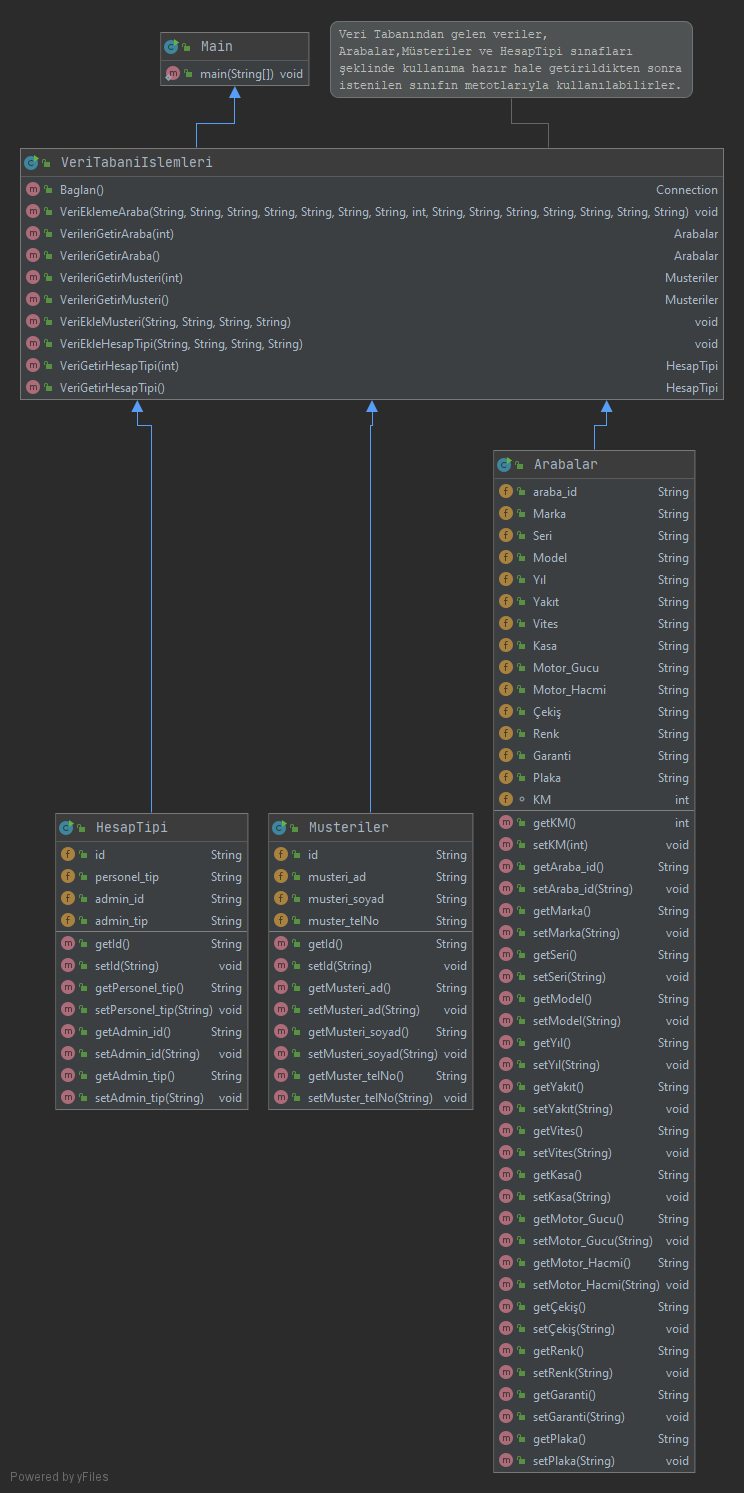
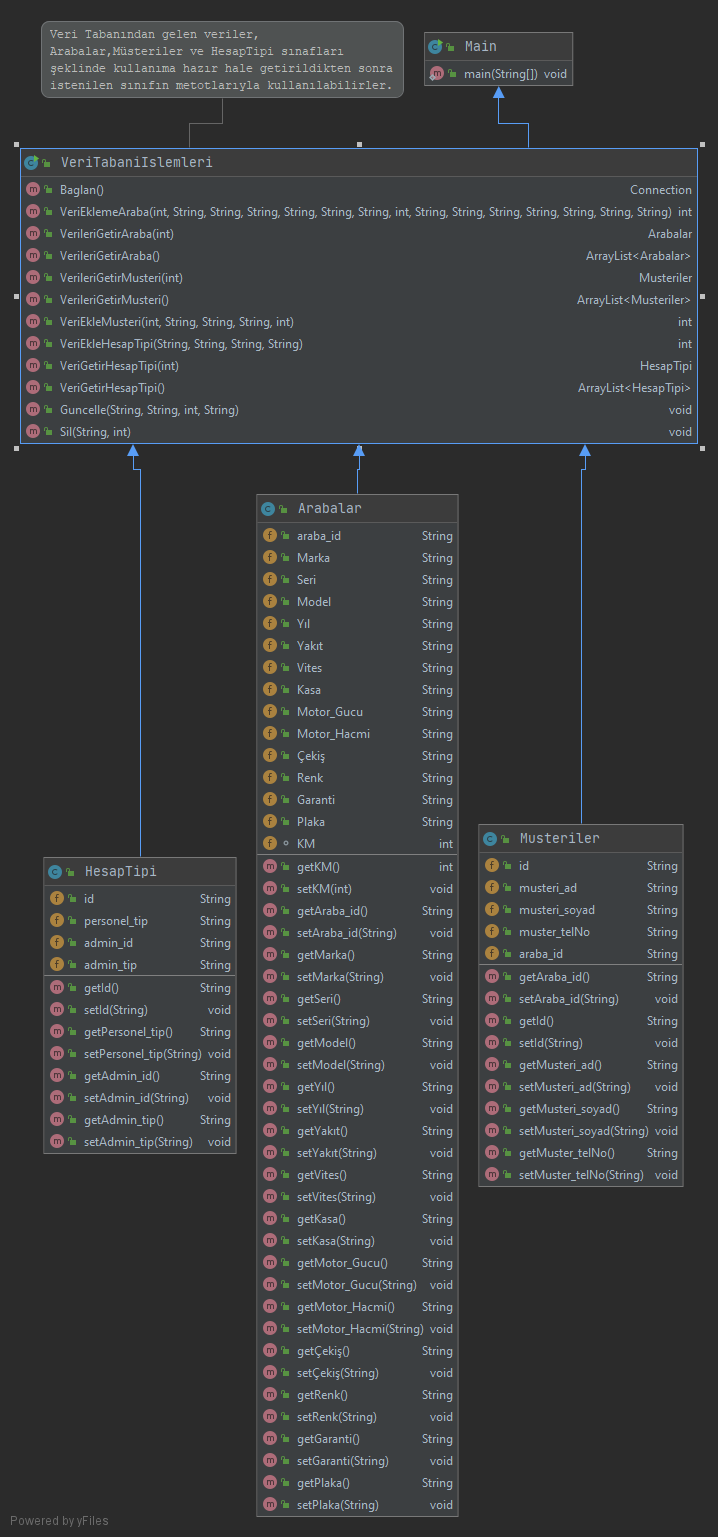
Diyagramlar Güncellendi

diff --git a/src/Sınıflar/VeriTabaniIslemleri.java b/src/Sınıflar/VeriTabaniIslemleri.java
@@ -4,8 +4,11 @@ import com.company.Main;
 import java.sql.*;
 import java.util.ArrayList;
 
-public class VeriTabaniIslemleri {
-
+public class VeriTabaniIslemleri extends Main {
+    /**
+     * Bu metot veri tabanıyla iletişim bağlantı kurmaya yarar.
+     * @return
+     */
     public Connection Baglan(){
         Connection baglantı=null;
         try{
@@ -13,7 +16,7 @@ public class VeriTabaniIslemleri {
             System.out.println("Bağlantı Başarılı");
 
         }catch (Exception e){
-            System.out.println("Bağlantı Başarısız");
+            System.out.println("Bağlantı Başarısız"+e.getMessage());
         }
         return baglantı;
     }

diff --git a/src/com/company/Main.java b/src/com/company/Main.java
@@ -10,16 +10,7 @@ public class Main {
 
     public static void main(String[] args) {
         VeriTabaniIslemleri veritabanı=new VeriTabaniIslemleri();
-        veritabanı.Baglan();
-        Arabalar araba = new Arabalar();
 
-      veritabanı.Sil("Müsteriler",2);
-        if( veritabanı.VeriEkleMusteri(2,"kerem","ayseli","1235489",0)==0){
-            System.out.println("Müşteri başarıyla eklendi.");
-        }
-        else {
-            System.out.println("Aynı müşteriden bulunmakta.");
-        }
 
 
     }

diff --git a/src/Sınıflar/Arabalar.java b/src/Sınıflar/Arabalar.java
@@ -3,7 +3,7 @@ package Sınıflar;
 import javax.xml.transform.Result;
 import java.sql.ResultSet;
 
-public class Arabalar {
+public class Arabalar extends VeriTabaniIslemleri {
     public String araba_id,  Marka, Seri,Model,Yıl, Yakıt, Vites, Kasa;
     public String Motor_Gucu, Motor_Hacmi,Çekiş, Renk, Garanti, Plaka;
     int KM;

diff --git a/src/Sınıflar/Musteriler.java b/src/Sınıflar/Musteriler.java
@@ -6,7 +6,7 @@ package Sınıflar;
 	"müsteri_telNo"	nvarchar(255),
 	PRIMARY KEY("id")
 )*/
-public class Musteriler {
+public class Musteriler extends VeriTabaniIslemleri {
     public String id;
     public String musteri_ad;
     public String musteri_soyad;

diff --git a/src/Sınıflar/HesapTipi.java b/src/Sınıflar/HesapTipi.java
@@ -6,7 +6,7 @@ package Sınıflar;
 	"admin_tip"	nvarchar(1),
 	PRIMARY KEY("id")
 )*/
-public class HesapTipi {
+public class HesapTipi extends VeriTabaniIslemleri {
    public String id,personel_tip,admin_id,admin_tip;
 
     public String getId() {
